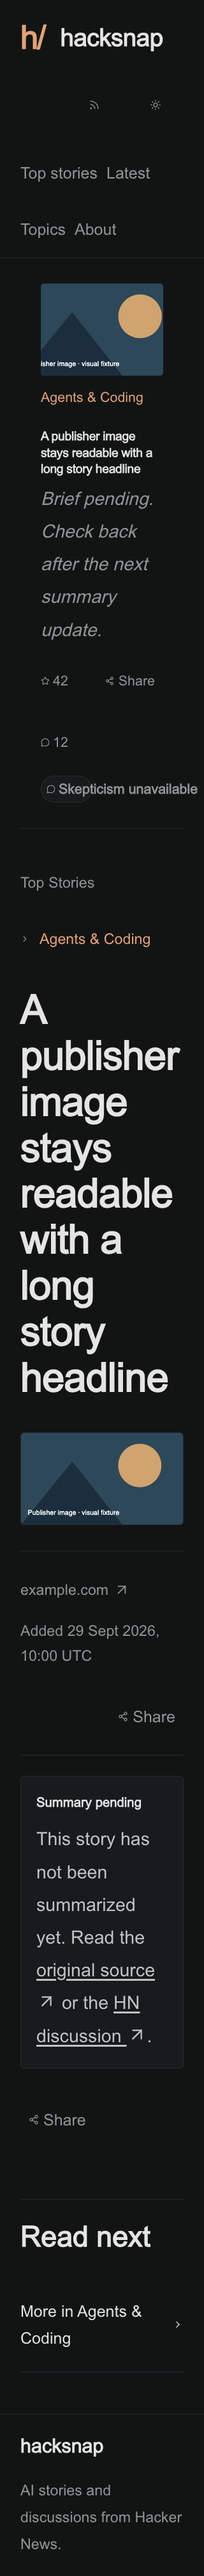
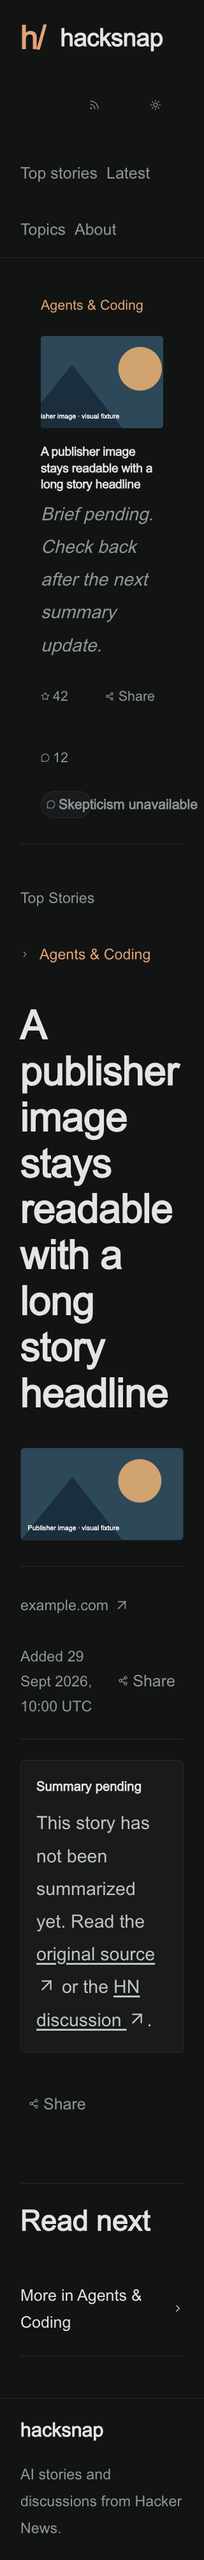
Keep mobile categories above images and align date with Share

diff --git a/hacksnap/web/app/globals.css b/hacksnap/web/app/globals.css
@@ -1628,11 +1628,20 @@ footer > span {
 
 /* Shared feed row: the same content and actions on Top, archive and topic pages. */
 .story-row.feed-story {
-  display: flex;
-  align-items: flex-start;
+  display: grid;
+  grid-template-columns: minmax(0, 1fr);
+  align-items: start;
   gap: 0;
   padding: var(--space-6) var(--space-5);
   min-width: 0;
+}
+.story-row.feed-story:has(.feed-story-image) {
+  grid-template-columns: clamp(7.5rem, 18vw, 12rem) minmax(0, 1fr);
+  column-gap: var(--space-5);
+}
+.feed-story > .story-context,
+.feed-story > .story-content {
+  grid-column: -2 / -1;
 }
 .story-row.feed-story:focus-within {
   z-index: 2;
@@ -1664,7 +1673,8 @@ footer > span {
   width: 100%;
 }
 .feed-story-image {
-  flex: 0 0 clamp(7.5rem, 18vw, 12rem);
+  grid-column: 1;
+  grid-row: 1 / span 2;
   aspect-ratio: 4 / 3;
   overflow: hidden;
   border-radius: 5px;
@@ -1675,9 +1685,6 @@ footer > span {
   width: 100%;
   height: 100%;
   object-fit: cover;
-}
-.feed-story-image + .story-content {
-  padding-left: var(--space-5);
 }
 .feed-story .story-domain {
   margin-bottom: 7px;
@@ -1955,7 +1962,8 @@ footer > span {
     padding: var(--space-5) var(--space-4);
   }
   .story-row.feed-story:has(.feed-story-image) {
-    flex-direction: column;
+    grid-template-columns: minmax(0, 1fr);
+    column-gap: 0;
   }
 
   /* Keep the compact metrics and Share aligned at phone widths. */
@@ -1974,12 +1982,10 @@ footer > span {
     font-size: 23px;
   }
   .feed-story-image {
-    flex: none;
+    grid-row: 2;
     width: 100%;
     max-height: 18rem;
-  }
-  .feed-story-image + .story-content {
-    padding-left: 0;
+    margin-bottom: var(--space-3);
   }
 }
 
@@ -2188,13 +2194,26 @@ footer > span {
   font: inherit;
 }
 @media (max-width: 40rem) {
+  .story-metadata {
+    display: grid;
+    grid-template-columns: minmax(0, 1fr) auto;
+    gap: 0 var(--space-2);
+  }
   .story-source-date {
-    flex: 1 1 12rem;
-    flex-direction: column;
-    align-items: flex-start;
+    display: contents;
+  }
+  .story-source {
+    grid-column: 1 / -1;
   }
   .story-added {
-    padding-top: 0;
+    grid-column: 1;
+    grid-row: 2;
+    min-width: 0;
+    overflow-wrap: anywhere;
+  }
+  .story-metadata > .share-menu {
+    grid-column: 2;
+    grid-row: 2;
   }
 }
 

diff --git a/hacksnap/web/app/story-row.tsx b/hacksnap/web/app/story-row.tsx
@@ -39,19 +39,19 @@ export function StoryRow({
     <article
       className={`story-row feed-story ${hasRank ? "feed-story-ranked" : "feed-story-unranked"}${rank === 1 ? " feed-story-lead" : ""}`}
     >
+      <div className="story-domain story-context">
+        {hasRank && (
+          <span className="rank" aria-label={`Rank ${rank}`}>
+            {String(rank).padStart(2, "0")}
+          </span>
+        )}
+        {story.category && <CategoryBadge id={story.category} />}
+        {variant === "ranked" && story.is_recent === false && (
+          <span className="archive-label">Archive</span>
+        )}
+      </div>
       <ArticleImage image={image} alt="" className="feed-story-image" loading="lazy" />
       <div className="story-content">
-        <div className="story-domain story-context">
-          {hasRank && (
-            <span className="rank" aria-label={`Rank ${rank}`}>
-              {String(rank).padStart(2, "0")}
-            </span>
-          )}
-          {story.category && <CategoryBadge id={story.category} />}
-          {variant === "ranked" && story.is_recent === false && (
-            <span className="archive-label">Archive</span>
-          )}
-        </div>
         <h3>
           <BrowseStoryLink id={story.hn_id} slug={story.story_slug}>
             {story.title}

diff --git a/docs/ux/2026-09-29/issue-59/README.md b/docs/ux/2026-09-29/issue-59/README.md
@@ -10,14 +10,19 @@ was uploaded. The temporary route and servers were removed after validation.
 
 All eight combinations passed: 320px and 1280px, light and dark themes, and
 100% and 200% root text size. Each reported document scroll width equal to the
-viewport width. Cards stack their image above text at 320px and keep a thumbnail
-beside the story at 1280px. The actual browser viewport was resized through CDP.
+viewport width. At 320px, cards show the category above the image, followed by
+the headline.
+At 1280px, the thumbnail sits beside the category and story content. On mobile,
+the story detail source occupies its own row, with the date and Share button
+on the next row. Their vertical centers matched in every capture, including
+200% text size. The actual browser viewport was resized through CDP.
 
 ## Failure and interaction checks
 
 The desktop fallback captures show the hydrated React component after image
-errors. Both image wrappers disappear, and the final adjacent-sibling gutter
-rule restores the image-less layout. Focused component tests also cover errors
+errors. Both image wrappers disappear. The feed grid uses a single column when
+the image wrapper is absent, restoring the image-less layout. Focused component
+tests also cover errors
 before hydration, invalid/non-ready assets, URL changes after failure, and
 canonical host validation. Images are decorative and add no keyboard targets.
 
